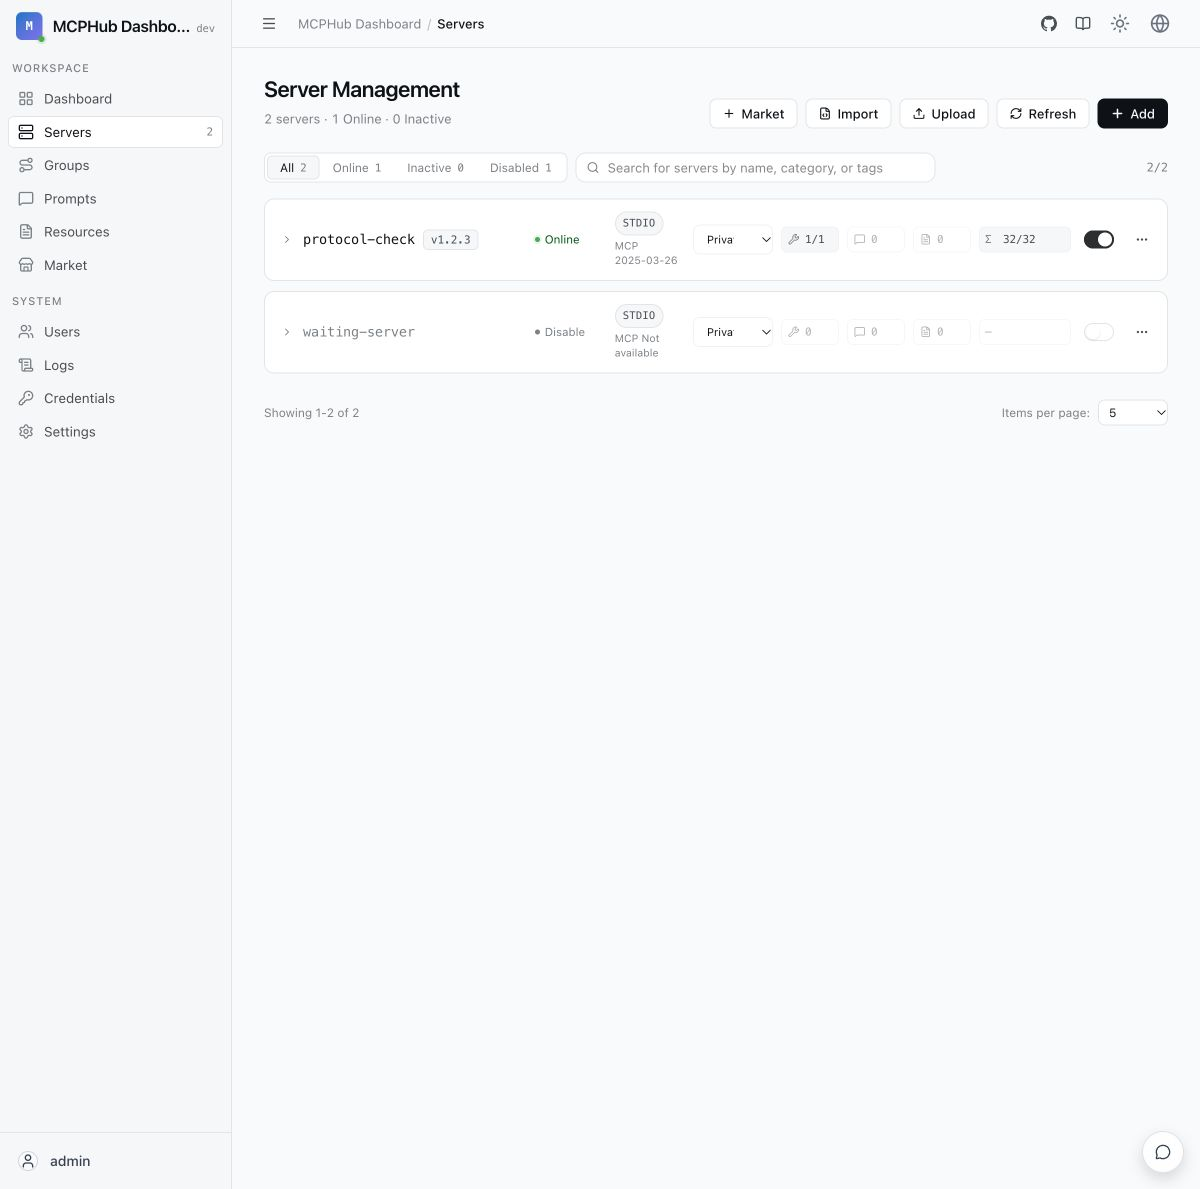
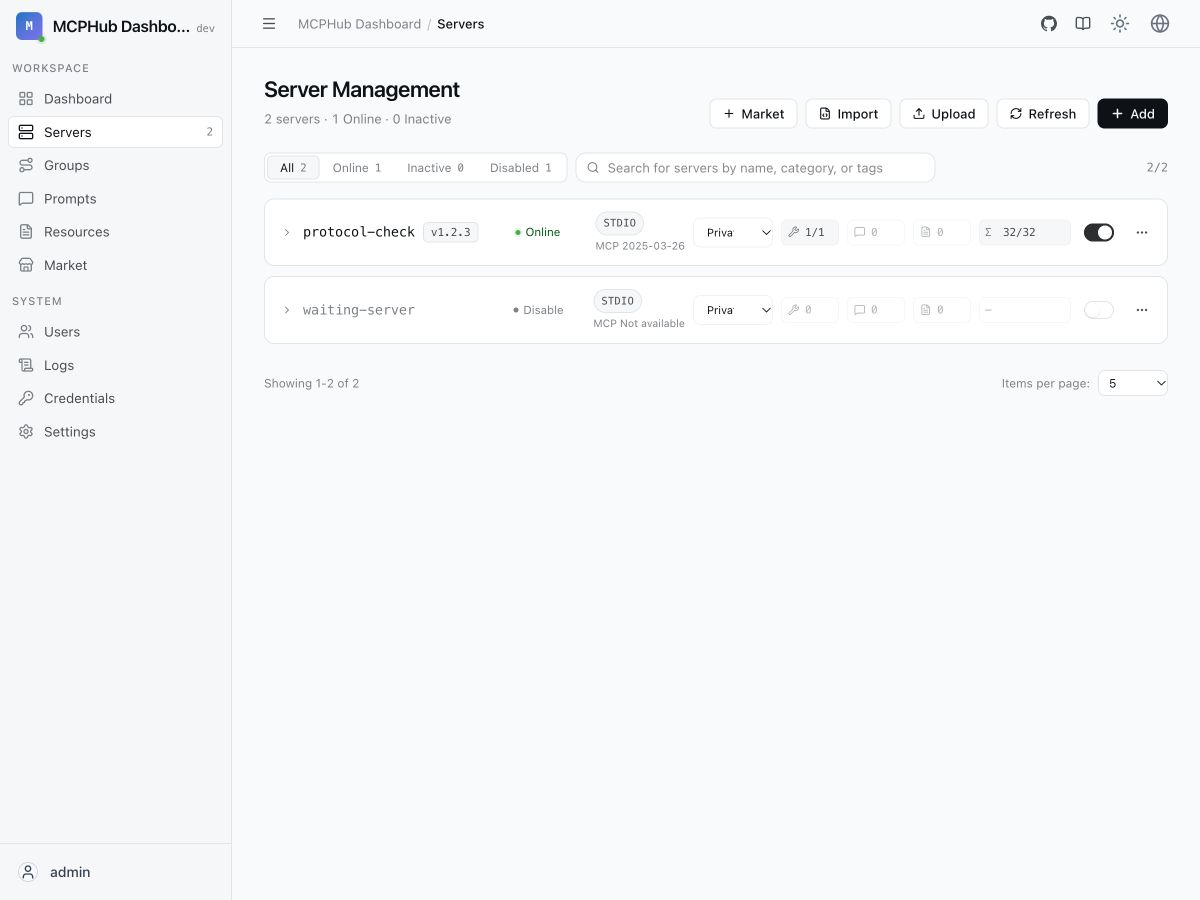
fix: keep MCP protocol version on one line

diff --git a/frontend/src/index.css b/frontend/src/index.css
@@ -281,7 +281,7 @@
   grid-template-columns:
     minmax(180px, 1.6fr)
     minmax(96px, 0.4fr)
-    minmax(100px, 0.45fr)
+    minmax(max-content, 0.45fr)
     minmax(100px, 0.5fr)
     repeat(3, minmax(76px, 0.36fr))
     minmax(112px, 0.5fr)
@@ -407,7 +407,7 @@
     grid-template-columns:
       minmax(150px, 1.5fr)
       minmax(84px, 0.4fr)
-      minmax(80px, 0.42fr)
+      minmax(max-content, 0.42fr)
       minmax(88px, 0.5fr)
       repeat(3, minmax(66px, 0.34fr))
       minmax(100px, 0.46fr)
@@ -1141,7 +1141,7 @@ button.hub-btn.primary.is-loading::after {
     grid-template-columns:
       minmax(120px, 1.4fr)
       minmax(72px, 0.4fr)
-      minmax(68px, 0.4fr)
+      minmax(max-content, 0.4fr)
       minmax(80px, 0.45fr)
       repeat(3, minmax(58px, 0.3fr))
       minmax(92px, 0.42fr)
@@ -1168,5 +1168,5 @@ button.hub-btn.primary.is-loading::after {
   color: var(--hub-ink-3);
   font-size: 10.5px;
   line-height: 1.4;
-  overflow-wrap: anywhere;
+  white-space: nowrap;
 }
